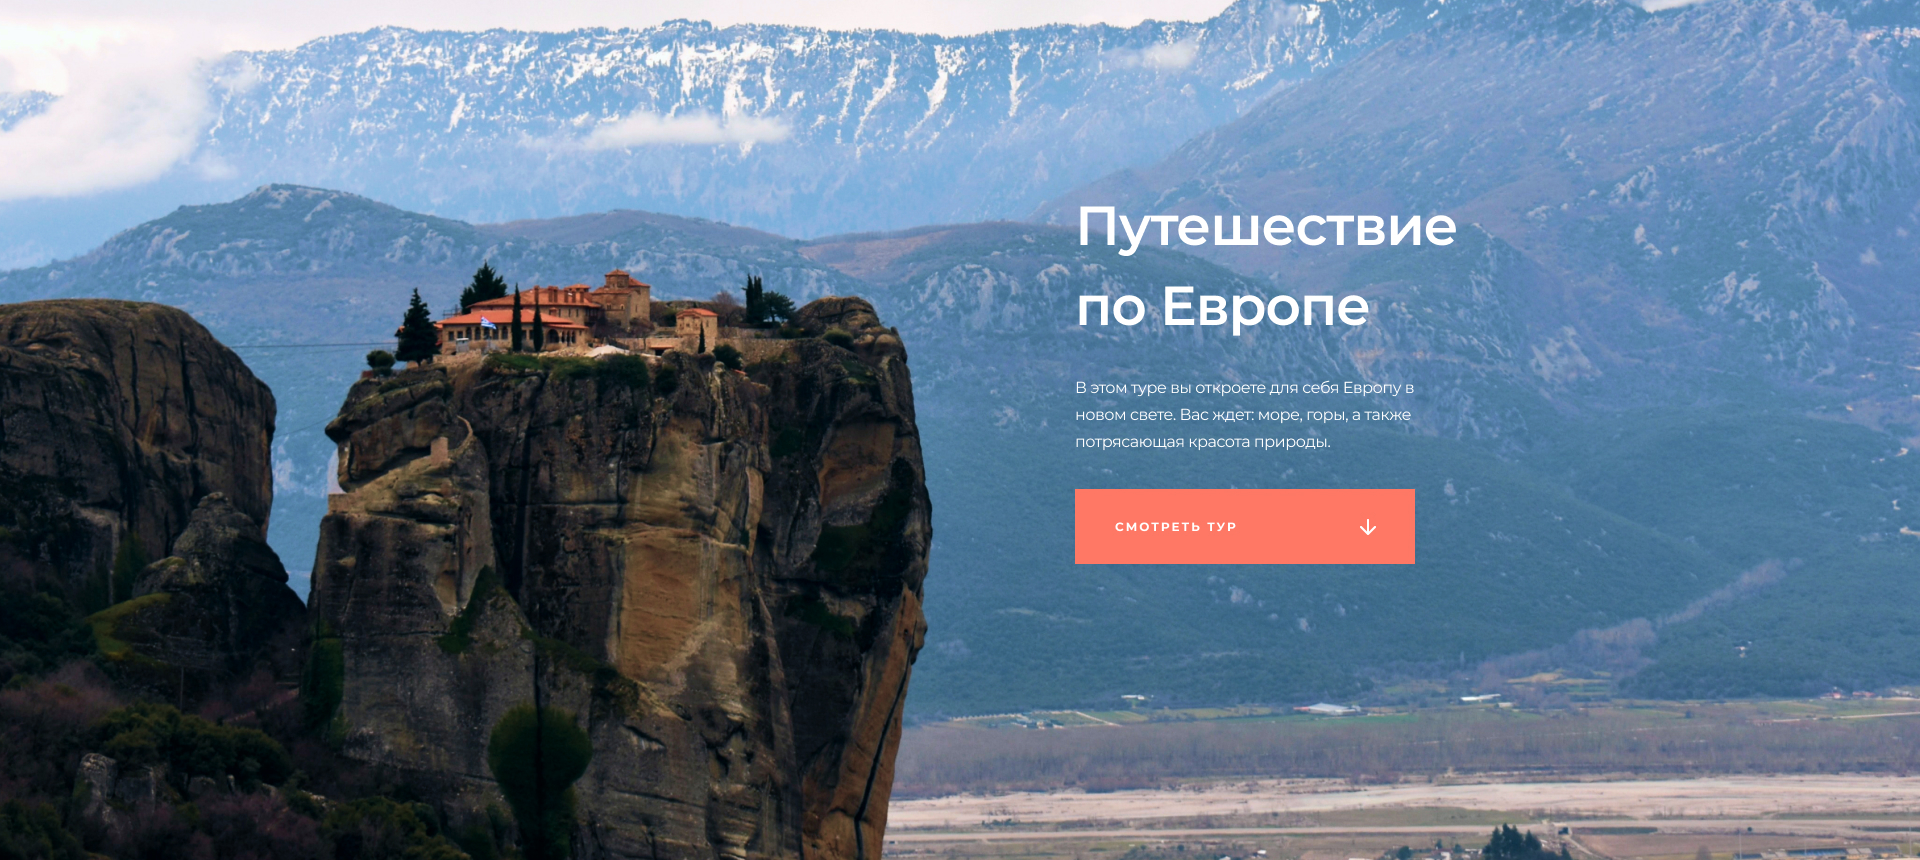
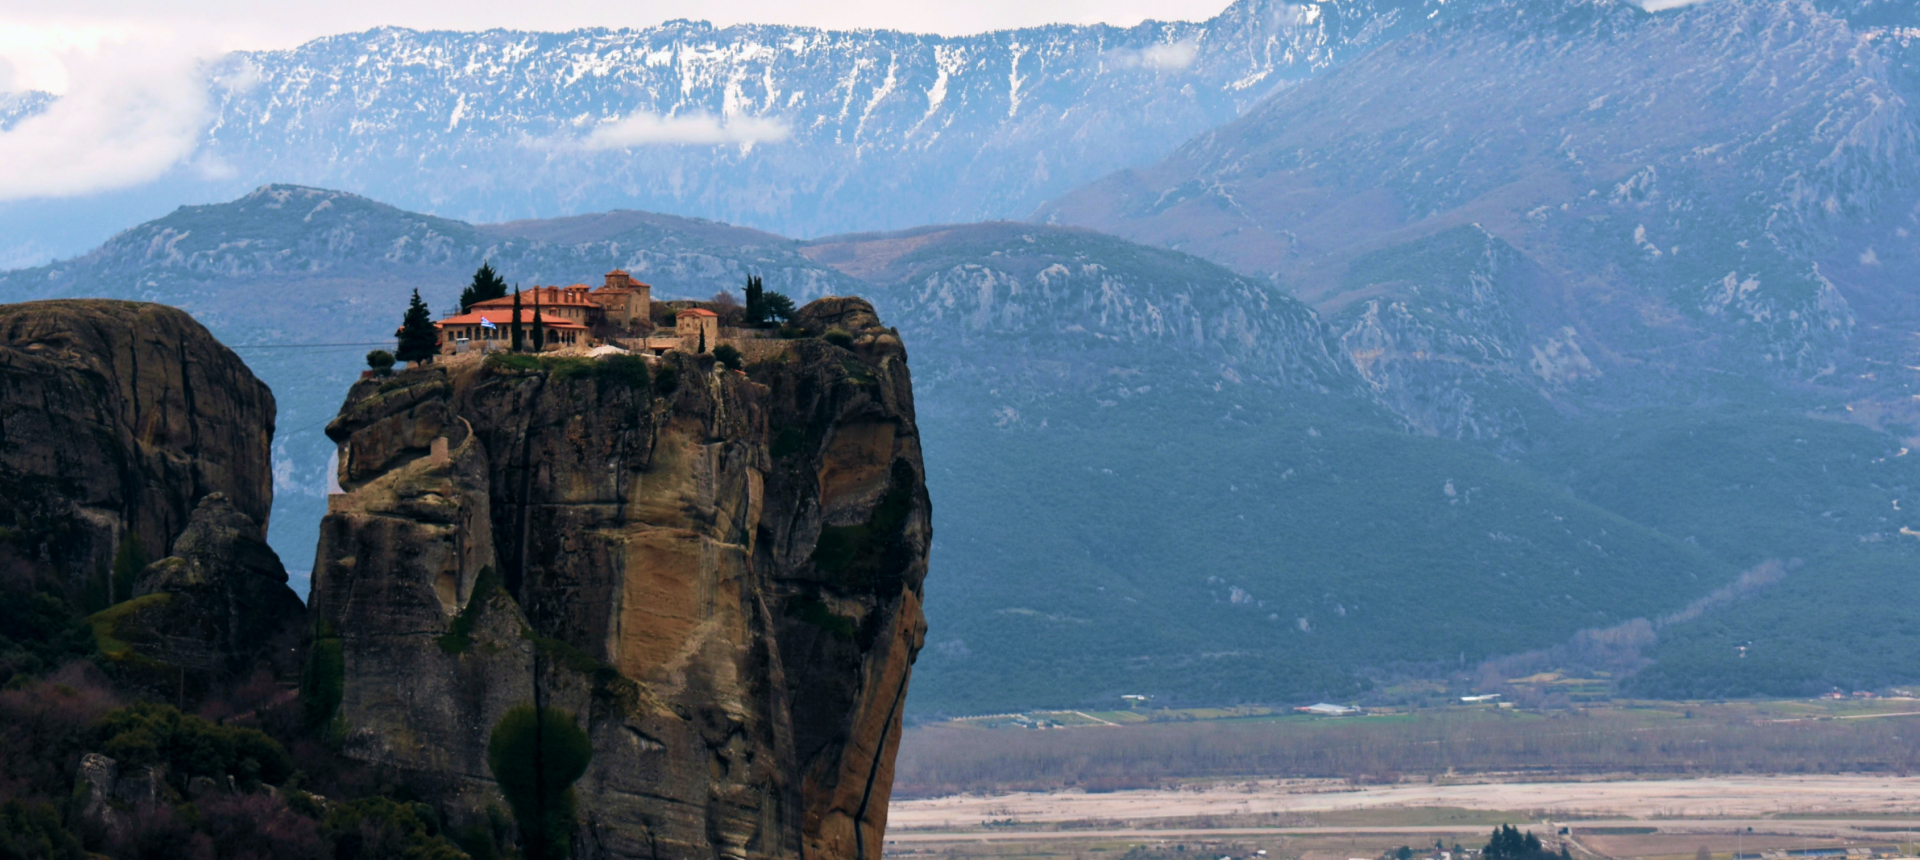
Промо Десктоп

Changed region(s): [[0.5625, 0.4233, 0.75, 0.6651], [0.5625, 0.2419, 0.7812, 0.3023], [0.5625, 0.3326, 0.7188, 0.393]]

diff --git a/build/css/style.min.css b/build/css/style.min.css
@@ -1,2 +1,2 @@
-html,input,input[type=checkbox],textarea{-webkit-box-sizing:border-box;box-sizing:border-box}*,::after,::before{-webkit-box-sizing:inherit;box-sizing:inherit}body,li,ul{margin:0;padding:0}body{font-family:"Montserrat","Arial",sans-serif;font-style:normal;font-weight:400;font-size:16px;line-height:28px;min-width:320px;overflow-x:hidden}a{text-decoration:none;color:#2c2e3f}.visually-hidden{position:absolute;width:1px;height:1px;margin:-1px;border:0;padding:0;white-space:nowrap;-webkit-clip-path:inset(100%);clip-path:inset(100%);clip:rect(0 0 0 0);overflow:hidden}li,ul{list-style:none}img{max-width:100%;height:auto}.visually-hidden:not(:focus):not(:active),input[type=checkbox].visually-hidden,input[type=radio].visually-hidden{position:absolute;width:1px;height:1px;margin:-1px;border:0;padding:0;white-space:nowrap;-webkit-clip-path:inset(100%);clip-path:inset(100%);clip:rect(0 0 0 0);overflow:hidden}h1,p{color:#2c2e3f}@font-face{font-family:"Montserrat";src:url(../fonts/Montserrat-Bold.woff2) format("woff2"),url(../fonts/Montserrat-Bold.woff) format("woff");font-weight:700;font-display:swap}@font-face{font-family:"Montserrat";src:url(../fonts/Montserrat-SemiBold.woff2) format("woff2"),url(../fonts/Montserrat-SemiBold.woff) format("woff");font-weight:600;font-display:swap}@font-face{font-family:"Montserrat";src:url(../fonts/Montserrat-Medium.woff2) format("woff2"),url(../fonts/Montserrat-Medium.woff) format("woff");font-weight:500;font-display:swap}@font-face{font-family:"Montserrat";src:url(../fonts/Montserrat-Regular.woff2) format("woff2"),url(../fonts/Montserrat-Regular.woff) format("woff");font-weight:400;font-display:swap}@font-face{font-family:"ProximaNova";src:url(../fonts/ProximaNova-Bold.woff2) format("woff2"),url(../fonts/ProximaNova-Bold.woff) format("woff");font-weight:800;font-display:swap}.button{cursor:pointer}@media (max-width:767px){.item-footer-trips__list:first-of-type{margin-right:12px}}.item-footer-trips__list{font-size:14px;line-height:17px;text-align:left;margin-right:40px}@media (max-width:1023px){.item-footer-trips__list{margin-right:47px}}@media (max-width:767px){.item-footer-trips__list{text-align:center;margin-right:0}.item-footer-trips__list:last-of-type{grid-area:2/1/3/3;margin:10px auto 0}}.item-footer-trips__item{margin-bottom:10px;white-space:nowrap}.item-footer-trips__item a{color:rgba(20,21,23,.5)}.item-footer-trips__wrapper{display:-webkit-box;display:-ms-flexbox;display:flex;-webkit-box-orient:horizontal;-webkit-box-direction:normal;-ms-flex-direction:row;flex-direction:row;-webkit-box-pack:justify;-ms-flex-pack:justify;justify-content:space-between;text-align:center}@media (max-width:1440px){.item-footer-trips__wrapper{-webkit-box-pack:start;-ms-flex-pack:start;justify-content:start}}@media (max-width:767px){.item-footer-trips__wrapper{display:grid;grid-template-columns:1fr 1fr;grid-template-rows:1fr;margin-left:-20px;margin-right:-20px}}.main-nav{position:relative}.main-nav__button{display:none}@media (max-width:1023px){.main-nav__button{display:block;width:72px;height:50px;background-color:#fe7865;outline:0;border:0}}@media (max-width:767px){.main-nav__button{width:50px}}@media (max-width:1023px){.main-nav__toggle{display:-webkit-box;display:-ms-flexbox;display:flex;width:22px;height:1px;background-color:#fff;position:absolute;top:24px;left:27px;right:0;bottom:0}}@media (max-width:1023px) and (max-width:767px){.main-nav__toggle{left:14px}}@media (max-width:1023px){.main-nav__toggle::after,.main-nav__toggle::before{position:absolute;content:'';top:-5px;left:0;right:0;bottom:0;width:22px;height:1px;z-index:10;background-color:#fff}.main-nav__toggle::after{top:5px}}.page-footer__list{display:grid;grid-template-columns:1fr 1fr 1fr}@media (max-width:1440px){.page-footer__list{grid-template-columns:repeat(2,1fr);grid-template-rows:repeat(2,1fr)}}@media (max-width:767px){.page-footer__list{grid-template-columns:1fr;grid-template-rows:auto}.page-footer__item{margin:0 auto}.page-footer__item--trips{margin-bottom:45px}}.page-footer__item--contacts{margin-left:60px}@media (max-width:1024px){.page-footer__item--contacts{margin-left:80px}}@media (max-width:1023px){.page-footer__item--contacts{margin-left:58px}}@media (max-width:767px){.page-footer__item--contacts{text-align:center;grid-area:2/1/3/2;margin:0 auto 14px}}.page-footer__item--corporate{margin-left:60px}@media (max-width:1440px){.page-footer__item--corporate{grid-area:2/1/3/3;text-align:center}}@media (max-width:1024px){.page-footer__item--corporate{margin-left:0}}@media (max-width:1023px){.page-footer__item--corporate{margin-top:20px}}@media (max-width:767px){.page-footer__item--corporate{grid-area:3/1/4/1}}.page-footer__anchor{display:block;font-size:14px;line-height:17px;margin-bottom:25px;margin-left:40px}.page-footer__anchor--tel{font-size:16px;line-height:32px}.page-footer__title{font-size:18px;line-height:32px;color:#141517;white-space:nowrap}@media (max-width:767px){.page-footer__title{margin-top:0}}.page-footer__description{color:rgba(20,21,23,.5);max-width:320px;font-size:14px;line-height:23.8px}@media (max-width:1440px){.page-footer__description{margin:0 auto;max-width:1440px}}.page-footer__wrapper{margin:0 auto;max-width:1190px;padding:0 10px}@media (max-width:1023px){.page-footer__wrapper{padding:0 21px}.page-header__anchor{padding-top:8px;padding-left:20px}}@media (max-width:767px){.page-header__anchor{padding-top:10px;padding-left:15px}}@media (max-width:1023px){.page-header__logo{width:44px;height:17px}}.page-header__wrapper{margin:0 auto;max-width:1190px;padding:35px 10px;display:-webkit-box;display:-ms-flexbox;display:flex;-webkit-box-pack:justify;-ms-flex-pack:justify;justify-content:space-between;-webkit-box-align:center;-ms-flex-align:center;align-items:center}@media (max-width:1023px){.page-header__wrapper{padding:0}}.site-list{display:-webkit-box;display:-ms-flexbox;display:flex;-webkit-box-pack:justify;-ms-flex-pack:justify;justify-content:space-between;-webkit-box-align:center;-ms-flex-align:center;align-items:center}@media (max-width:1023px){.site-list{display:none}}.site-list__item{margin-right:40px}.site-list__item:last-of-type{margin-right:0}.site-list :last-of-type a{font-size:18px;font-weight:400;line-height:32px;text-decoration:underline;margin-left:75px}.site-list__anchor{font-size:14px;line-height:17px;font-weight:500}.site-list__anchor:hover{color:#f17d4b}
+html,input,input[type=checkbox],textarea{-webkit-box-sizing:border-box;box-sizing:border-box}*,::after,::before{-webkit-box-sizing:inherit;box-sizing:inherit}body,li,ul{margin:0;padding:0}body{font-family:"Montserrat","Arial",sans-serif;font-style:normal;font-weight:400;font-size:16px;line-height:28px;min-width:320px;overflow-x:hidden}a{text-decoration:none;color:#2c2e3f}.visually-hidden{position:absolute;width:1px;height:1px;margin:-1px;border:0;padding:0;white-space:nowrap;-webkit-clip-path:inset(100%);clip-path:inset(100%);clip:rect(0 0 0 0);overflow:hidden}li,ul{list-style:none}img{max-width:100%;height:auto}.visually-hidden:not(:focus):not(:active),input[type=checkbox].visually-hidden,input[type=radio].visually-hidden{position:absolute;width:1px;height:1px;margin:-1px;border:0;padding:0;white-space:nowrap;-webkit-clip-path:inset(100%);clip-path:inset(100%);clip:rect(0 0 0 0);overflow:hidden}h1,p{color:#2c2e3f}@font-face{font-family:"Montserrat";src:url(../fonts/Montserrat-Bold.woff2) format("woff2"),url(../fonts/Montserrat-Bold.woff) format("woff");font-weight:700;font-display:swap}@font-face{font-family:"Montserrat";src:url(../fonts/Montserrat-SemiBold.woff2) format("woff2"),url(../fonts/Montserrat-SemiBold.woff) format("woff");font-weight:600;font-display:swap}@font-face{font-family:"Montserrat";src:url(../fonts/Montserrat-Medium.woff2) format("woff2"),url(../fonts/Montserrat-Medium.woff) format("woff");font-weight:500;font-display:swap}@font-face{font-family:"Montserrat";src:url(../fonts/Montserrat-Regular.woff2) format("woff2"),url(../fonts/Montserrat-Regular.woff) format("woff");font-weight:400;font-display:swap}@font-face{font-family:"ProximaNova";src:url(../fonts/ProximaNova-Bold.woff2) format("woff2"),url(../fonts/ProximaNova-Bold.woff) format("woff");font-weight:800;font-display:swap}.button{cursor:pointer;color:#fff;font-size:12px;line-height:14.63px;font-weight:800;text-transform:uppercase;background-color:#fe7865;letter-spacing:2px;padding:30px 40px}.button:hover{background-color:#f17d4b}@media (max-width:767px){.item-footer-trips__list:first-of-type{margin-right:12px}}.item-footer-trips__list{font-size:14px;line-height:17px;text-align:left;margin-right:40px}@media (max-width:1023px){.item-footer-trips__list{margin-right:47px}}@media (max-width:767px){.item-footer-trips__list{text-align:center;margin-right:0}.item-footer-trips__list:last-of-type{grid-area:2/1/3/3;margin:10px auto 0}}.item-footer-trips__item{margin-bottom:10px;white-space:nowrap}.item-footer-trips__item a{color:rgba(20,21,23,.5)}.item-footer-trips__wrapper{display:-webkit-box;display:-ms-flexbox;display:flex;-webkit-box-orient:horizontal;-webkit-box-direction:normal;-ms-flex-direction:row;flex-direction:row;-webkit-box-pack:justify;-ms-flex-pack:justify;justify-content:space-between;text-align:center}@media (max-width:1440px){.item-footer-trips__wrapper{-webkit-box-pack:start;-ms-flex-pack:start;justify-content:start}}@media (max-width:767px){.item-footer-trips__wrapper{display:grid;grid-template-columns:1fr 1fr;grid-template-rows:1fr;margin-left:-20px;margin-right:-20px}}.main-nav{position:relative}.main-nav__button{display:none}@media (max-width:1023px){.main-nav__button{display:block;width:72px;height:50px;background-color:#fe7865;outline:0;border:0}}@media (max-width:767px){.main-nav__button{width:50px}}@media (max-width:1023px){.main-nav__toggle{display:-webkit-box;display:-ms-flexbox;display:flex;width:22px;height:1px;background-color:#fff;position:absolute;top:24px;left:27px;right:0;bottom:0}}@media (max-width:1023px) and (max-width:767px){.main-nav__toggle{left:14px}}@media (max-width:1023px){.main-nav__toggle::after,.main-nav__toggle::before{position:absolute;content:'';top:-5px;left:0;right:0;bottom:0;width:22px;height:1px;z-index:10;background-color:#fff}.main-nav__toggle::after{top:5px}}.page-footer__list{display:grid;grid-template-columns:1fr 1fr 1fr}@media (max-width:1440px){.page-footer__list{grid-template-columns:repeat(2,1fr);grid-template-rows:repeat(2,1fr)}}@media (max-width:767px){.page-footer__list{grid-template-columns:1fr;grid-template-rows:auto}.page-footer__item{margin:0 auto}.page-footer__item--trips{margin-bottom:45px}}.page-footer__item--contacts{margin-left:60px}@media (max-width:1024px){.page-footer__item--contacts{margin-left:80px}}@media (max-width:1023px){.page-footer__item--contacts{margin-left:58px}}@media (max-width:767px){.page-footer__item--contacts{text-align:center;grid-area:2/1/3/2;margin:0 auto 14px}}.page-footer__item--corporate{margin-left:60px}@media (max-width:1440px){.page-footer__item--corporate{grid-area:2/1/3/3;text-align:center}}@media (max-width:1024px){.page-footer__item--corporate{margin-left:0}}@media (max-width:1023px){.page-footer__item--corporate{margin-top:20px}}@media (max-width:767px){.page-footer__item--corporate{grid-area:3/1/4/1}}.page-footer__anchor{display:block;font-size:14px;line-height:17px;margin-bottom:25px;margin-left:40px}.page-footer__anchor--tel{font-size:16px;line-height:32px}.page-footer__title{font-size:18px;line-height:32px;color:#141517;white-space:nowrap}@media (max-width:767px){.page-footer__title{margin-top:0}}.page-footer__description{color:rgba(20,21,23,.5);max-width:320px;font-size:14px;line-height:23.8px}@media (max-width:1440px){.page-footer__description{margin:0 auto;max-width:1440px}}.page-footer__wrapper{margin:0 auto;max-width:1190px;padding:0 10px}@media (max-width:1023px){.page-footer__wrapper{padding:0 21px}.page-header__anchor{padding-top:8px;padding-left:20px}}@media (max-width:767px){.page-header__anchor{padding-top:10px;padding-left:15px}}@media (max-width:1023px){.page-header__logo{width:44px;height:17px}}.page-header__wrapper{margin:0 auto;max-width:1190px;padding:35px 10px;display:-webkit-box;display:-ms-flexbox;display:flex;-webkit-box-pack:justify;-ms-flex-pack:justify;justify-content:space-between;-webkit-box-align:center;-ms-flex-align:center;align-items:center}@media (max-width:1023px){.page-header__wrapper{padding:0}}.page-main__wrapper{margin:0 auto;max-width:1190px;padding:0 10px}.promo{background-image:url(../../img/promo.jpg);background-repeat:no-repeat;background-size:cover;text-align:left;padding-top:180px;padding-bottom:308px}.promo__wrapper{margin:0 auto;max-width:1190px;padding:0 10px}.promo__title{font-size:55px;line-height:80px;font-weight:600;max-width:412px;letter-spacing:-1.11px;margin:0 0 30px 700px;color:#fff}.promo__description{margin-left:700px;font-size:16px;line-height:27px;font-weight:400;max-width:376px;letter-spacing:-.47px;margin-bottom:55px;color:#fff}.promo__button{margin-left:700px;padding-right:179px}.site-list{display:-webkit-box;display:-ms-flexbox;display:flex;-webkit-box-pack:justify;-ms-flex-pack:justify;justify-content:space-between;-webkit-box-align:center;-ms-flex-align:center;align-items:center}@media (max-width:1023px){.site-list{display:none}}.site-list__item{margin-right:40px}.site-list__item:last-of-type{margin-right:0}.site-list :last-of-type a{font-size:18px;font-weight:400;line-height:32px;text-decoration:underline;margin-left:75px}.site-list__anchor{font-size:14px;line-height:17px;font-weight:500}.site-list__anchor:hover{color:#f17d4b}
 /*# sourceMappingURL=style.min.css.map */

diff --git a/build/index.html b/build/index.html
@@ -39,18 +39,18 @@
       </nav>
     </div>
   </header>
-
-  <!--   <main class="page-main">
-
+  <main class="page-main">
     <section class="promo">
-      <div class="promo__wrapper">
-        <h1 class="promo__title">Путешествие по Европе</h1>
-        <p class="promo__description">В этом туре вы откроете для себя Европу в новом свете. Вас ждет: море, горы, а также потрясающая красота природы.</p>
-        <a href="" class="promo__button button">Смотреть тур</a>
-      </div>
-    </section>
+    <div class="promo__wrapper">
+      <h1 class="promo__title">Путешествие по Европе</h1>
+      <p class="promo__description">В этом туре вы откроете для себя Европу в новом свете. Вас ждет: море, горы, а также потрясающая красота природы.</p>
+      <a href="" class="promo__button button">Смотреть тур</a>
+    </div>
+  </section>
+    <div class="page-main__wrapper">
 
-    <section class="locations">
+
+<!--     <section class="locations">
       <h2 class="locations__title">Места посещения</h2>
       <p class="locations__description">Вы можете выбрать полный тур или частичный, с посещением первых 3 мест</p>
       <ul class="locations__list">
@@ -205,8 +205,11 @@
         <input type="email" name="email" id="email" placeholder="E-mail">
         <input type="submit" class="questions__button button">Отправить</input>
       </form>
-    </section>
-  </main> -->
+    </section> -->
+
+    </div>
+  </main>
+
   <footer class="page-footer">
     <div class="page-footer__wrapper">
       <ul class="page-footer__list">

diff --git a/source/index.html b/source/index.html
@@ -48,18 +48,18 @@
       </nav>
     </div>
   </header>
-
-  <!--   <main class="page-main">
-
+  <main class="page-main">
     <section class="promo">
-      <div class="promo__wrapper">
-        <h1 class="promo__title">Путешествие по Европе</h1>
-        <p class="promo__description">В этом туре вы откроете для себя Европу в новом свете. Вас ждет: море, горы, а также потрясающая красота природы.</p>
-        <a href="" class="promo__button button">Смотреть тур</a>
-      </div>
-    </section>
+    <div class="promo__wrapper">
+      <h1 class="promo__title">Путешествие по Европе</h1>
+      <p class="promo__description">В этом туре вы откроете для себя Европу в новом свете. Вас ждет: море, горы, а также потрясающая красота природы.</p>
+      <a href="" class="promo__button button">Смотреть тур</a>
+    </div>
+  </section>
+    <div class="page-main__wrapper">
 
-    <section class="locations">
+
+<!--     <section class="locations">
       <h2 class="locations__title">Места посещения</h2>
       <p class="locations__description">Вы можете выбрать полный тур или частичный, с посещением первых 3 мест</p>
       <ul class="locations__list">
@@ -214,8 +214,11 @@
         <input type="email" name="email" id="email" placeholder="E-mail">
         <input type="submit" class="questions__button button">Отправить</input>
       </form>
-    </section>
-  </main> -->
+    </section> -->
+
+    </div>
+  </main>
+
   <footer class="page-footer">
     <div class="page-footer__wrapper">
       <ul class="page-footer__list">

diff --git a/source/scss/blocks/_promo.scss b/source/scss/blocks/_promo.scss
@@ -1,14 +1,43 @@
 .promo {
-  // .promo_description
-  &__description {
-  }
-  // .promo__wrapper
+  background-image: url('../../img/promo.jpg');
+  background-repeat: no-repeat;
+  background-size: cover;
+
+  text-align: left;
+  padding-top: 180px;
+  padding-bottom: 308px;
+
   &__wrapper {
+    margin: 0 auto;
+    max-width: 1190px;
+    padding: 0 10px;
   }
   // .promo__title
   &__title {
+    margin: 0;
+    margin-left: 700px;
+    font-size: 55px;
+    line-height: 80px;
+    font-weight: 600;
+    max-width: 412px;
+    letter-spacing: -1.11px;
+    margin-bottom: 30px;
+    color: $basic-white;
+  }
+  // .promo_description
+  &__description {
+    margin-left: 700px;
+    font-size: 16px;
+    line-height: 27px;
+    font-weight: 400;
+    max-width: 376px;
+    letter-spacing: -0.47px;
+    margin-bottom: 55px;
+    color: $basic-white;
   }
   // .promo__button
   &__button {
+    margin-left: 700px;
+    padding-right: 179px;
   }
 }

diff --git a/build/js/app.js b/build/js/app.js
@@ -1,15 +1,15 @@
 'use strict';
 
-const pageHeader = document.querySelector('.page-header');
-const headerToggle = document.querySelector('.main-nav__button');
+var pageHeader = document.querySelector('.page-header');
+var headerToggle = document.querySelector('.main-nav__button');
 
 // pageHeader.classList.remove('page-header--nojs');
 
 headerToggle.addEventListener('click', function () {
+  // console.log('clicked');
   if (pageHeader.classList.contains('page-header--closed')) {
     pageHeader.classList.remove('page-header--closed');
     pageHeader.classList.add('page-header--opened');
-    console.log('clicked');
 
   } else {
     pageHeader.classList.add('page-header--closed');

diff --git a/source/scss/_button.scss b/source/scss/_button.scss
@@ -1,3 +1,20 @@
+@import "vars";
+
 .button {
   cursor: pointer;
+  color: $basic-white;
+  font-size: 12px;
+  line-height: 14.63px;
+  font-weight: 800;
+  text-transform: uppercase;
+  background-color: $basic-red;
+  padding-top: 30px;
+  padding-bottom: 30px;
+  letter-spacing: 2px;
+  padding-left: 40px;
+  padding-right: 40px;
+
+  &:hover {
+    background-color: $basic-orange;
+  }
 }

diff --git a/source/scss/blocks/_page-main.scss b/source/scss/blocks/_page-main.scss
@@ -1,2 +1,9 @@
 .page-main {
+
+}
+
+.page-main__wrapper {
+  margin: 0 auto;
+  max-width: 1190px;
+  padding: 0 10px;
 }
